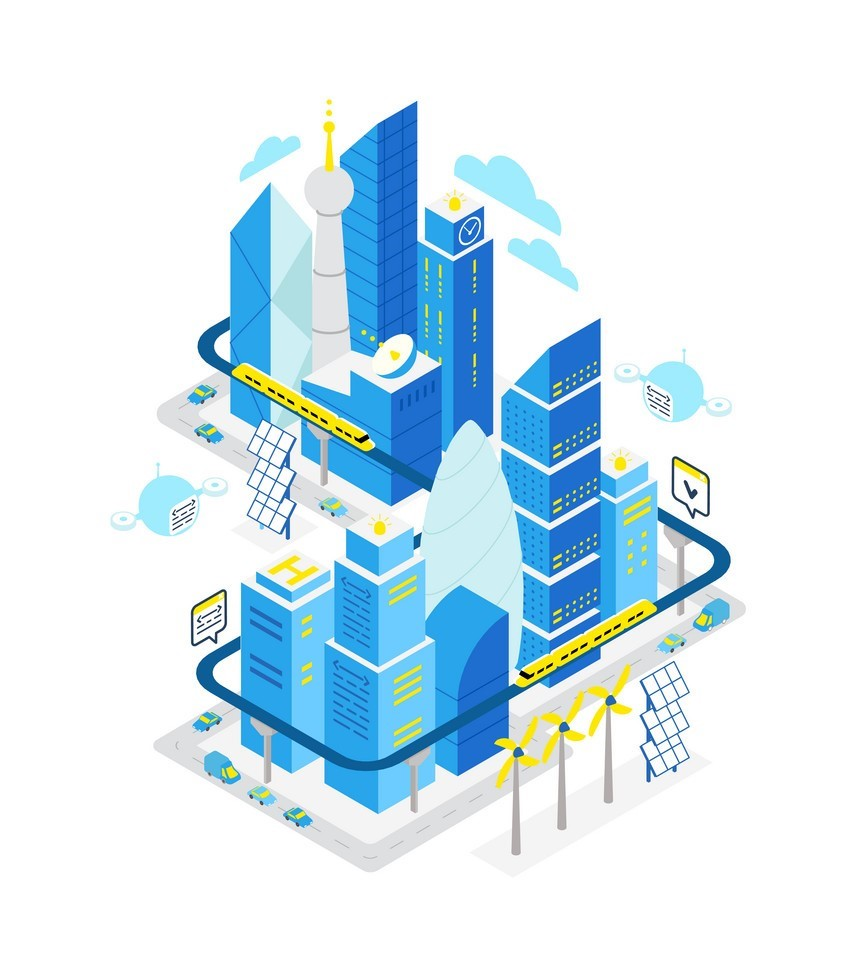
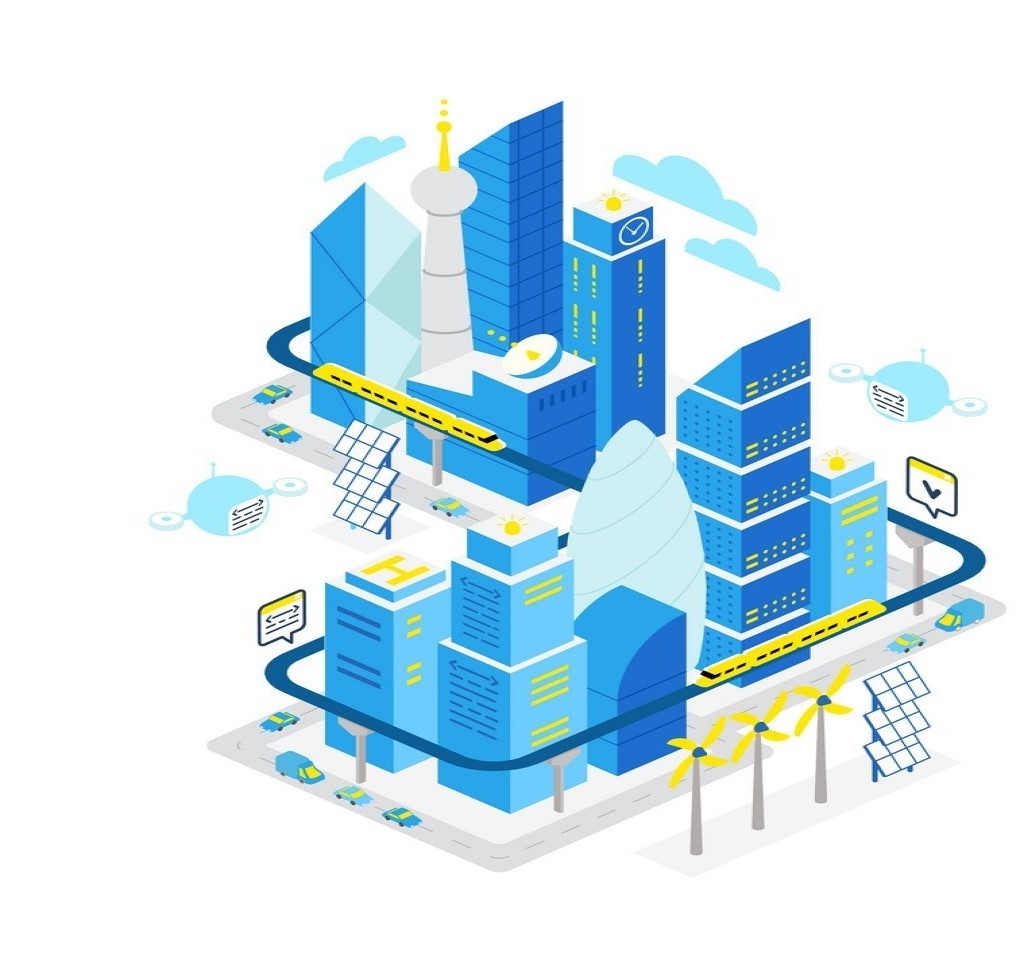
edit image in about

diff --git a/assets/css/styles.css b/assets/css/styles.css
@@ -251,7 +251,7 @@ img{
   margin-bottom: var(--mb-2);
 }
 .about__img{
-  justify-self: center;
+  justify-self: left;
 }
 .about__img img{
   width: 200px;
